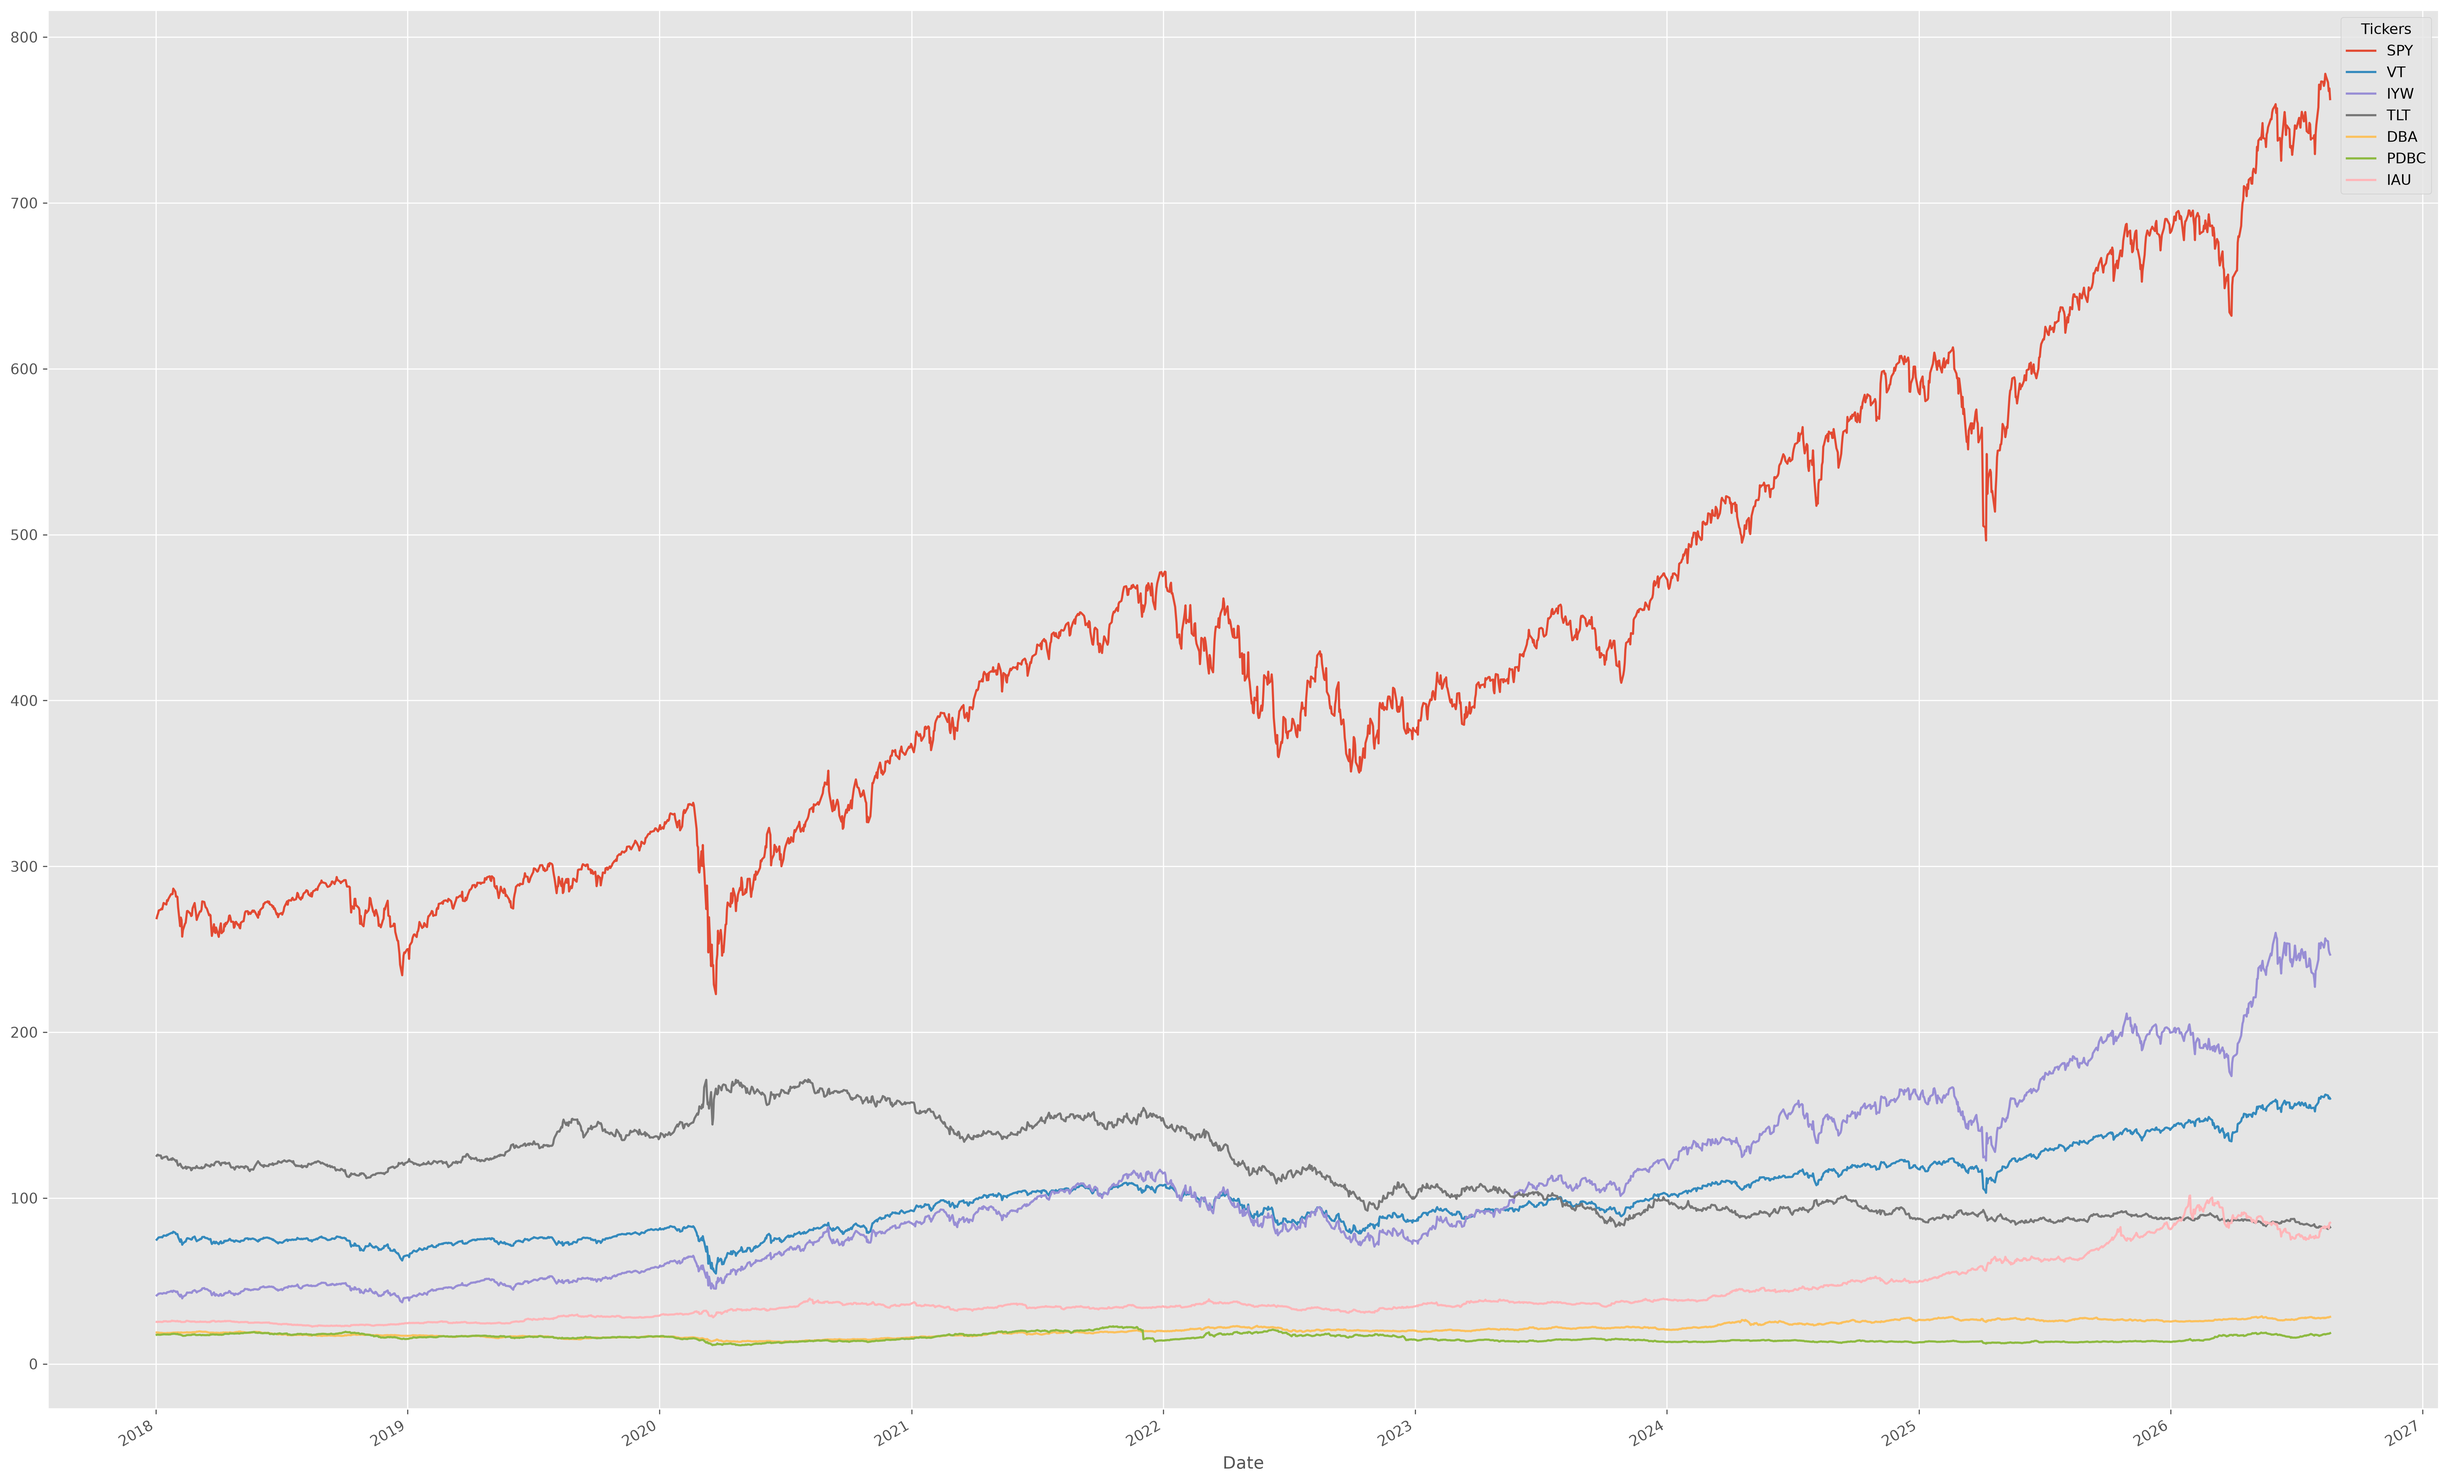
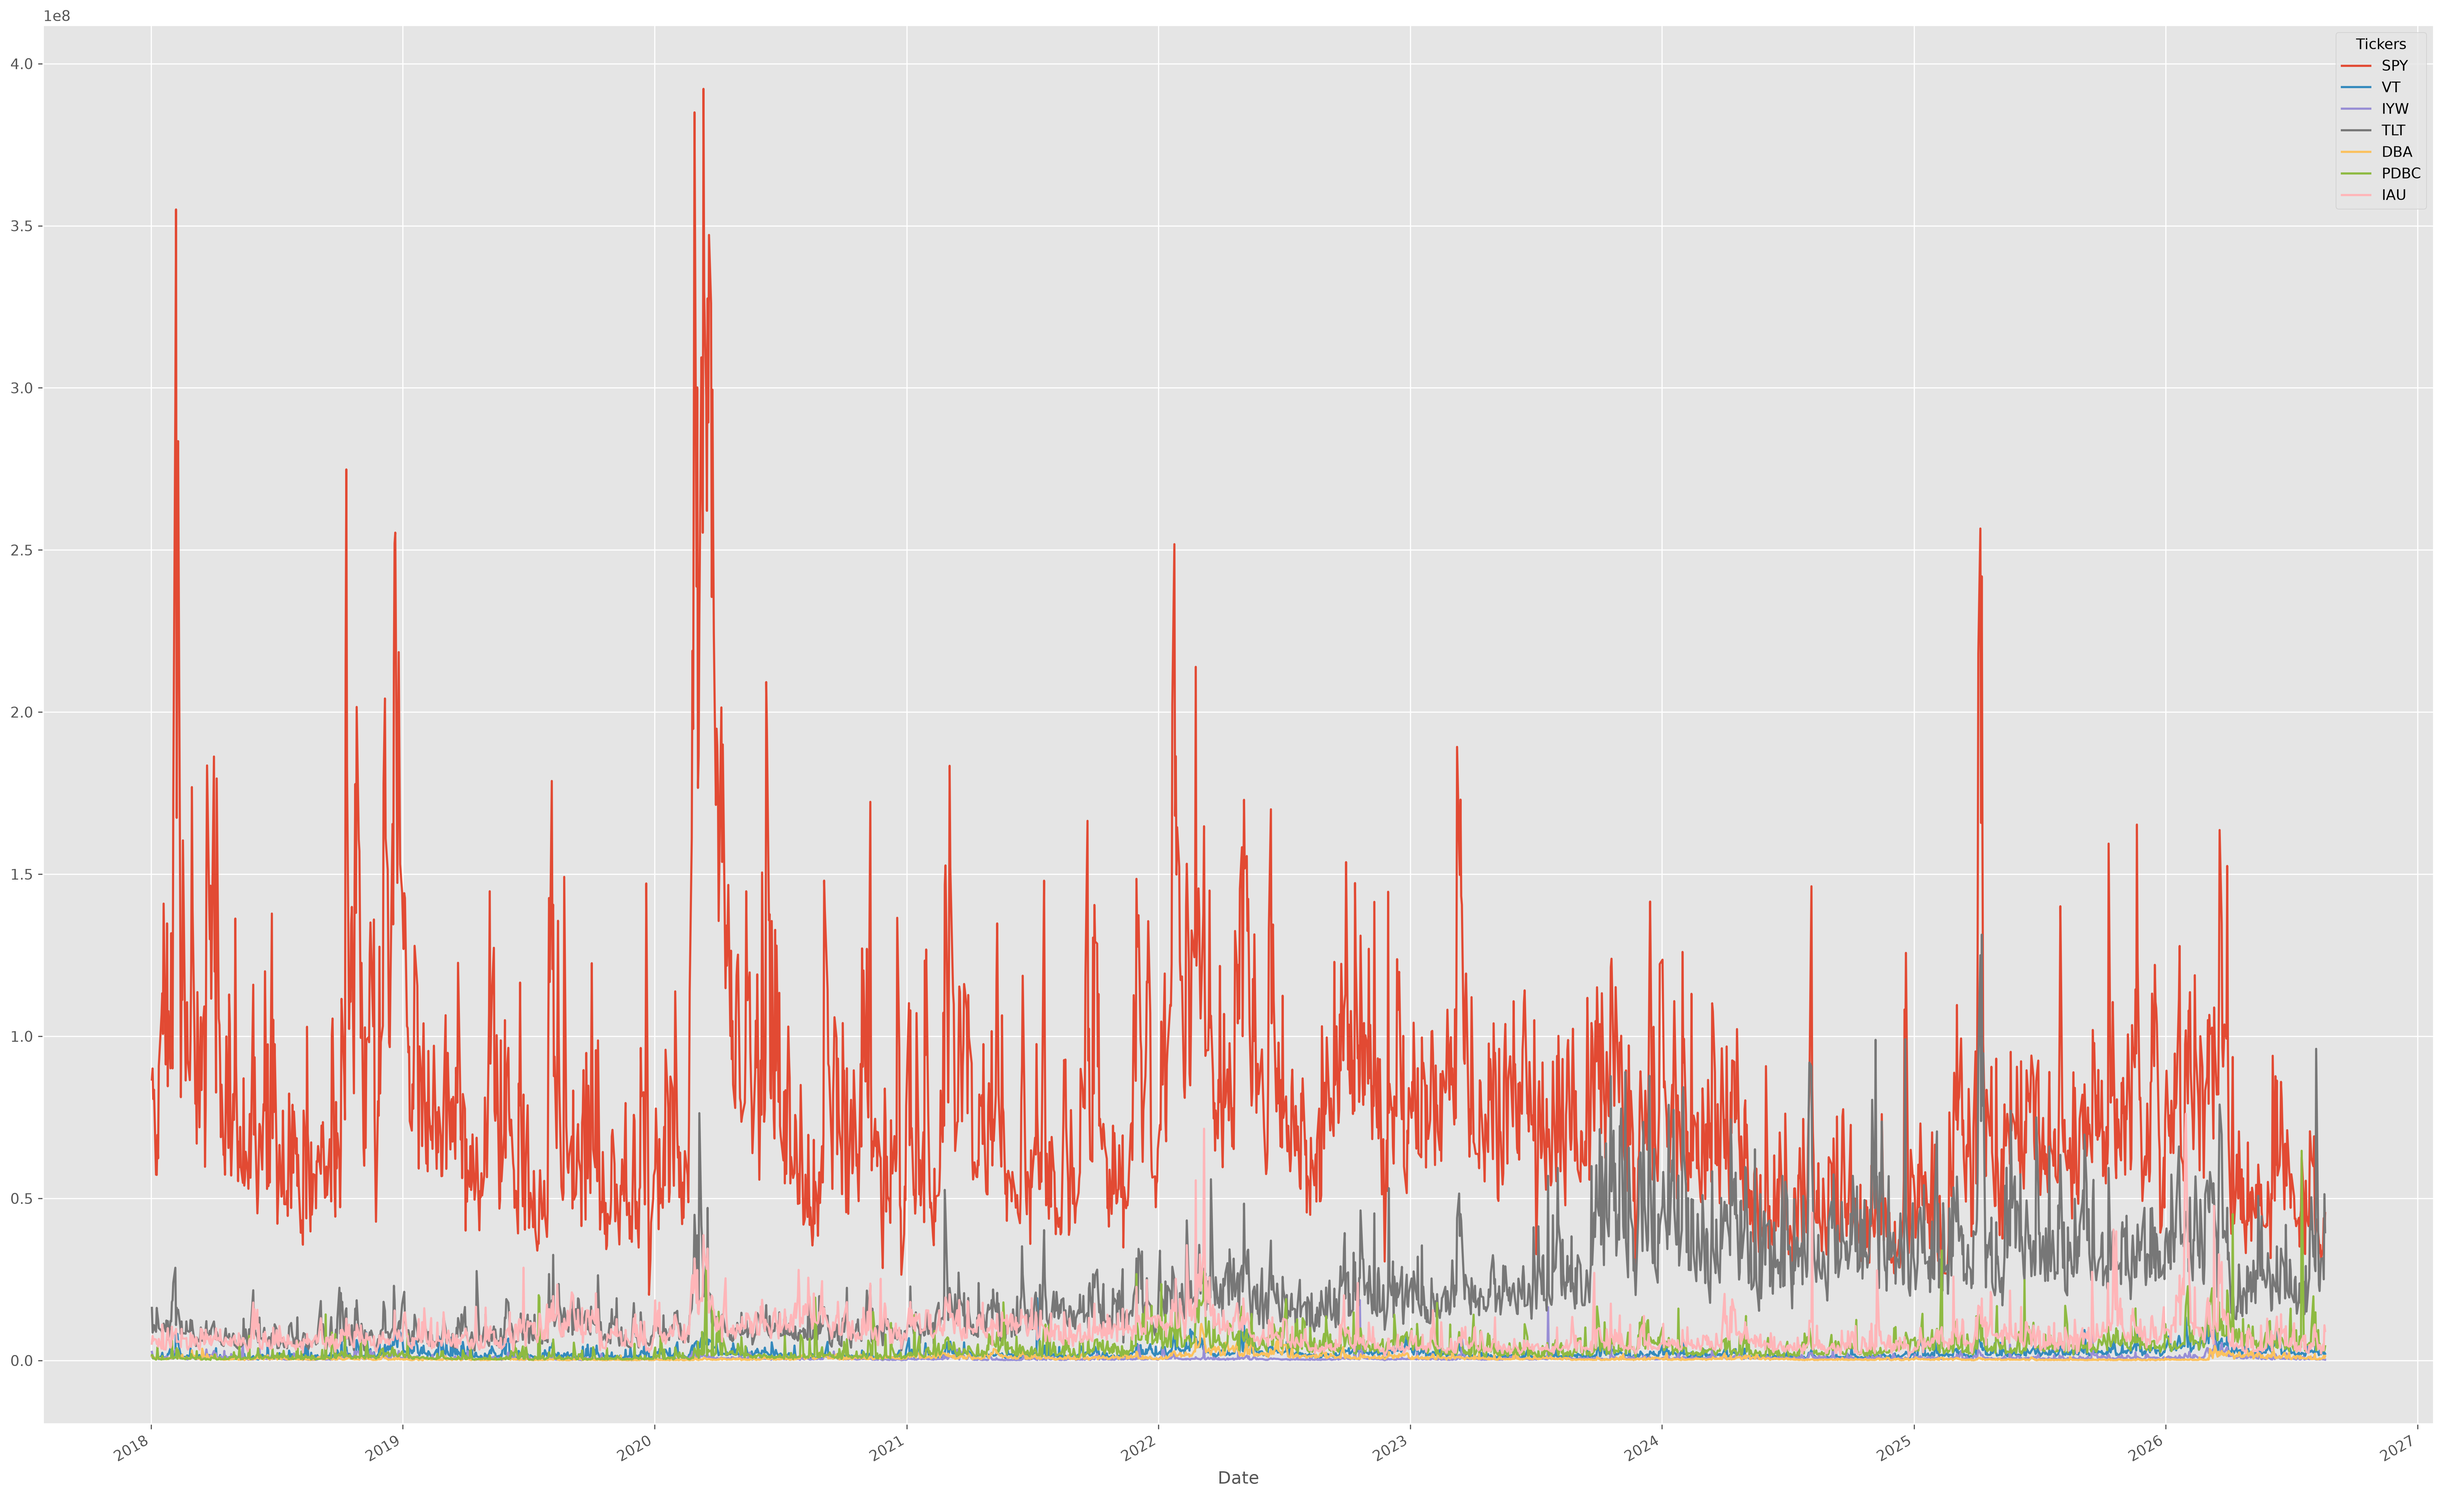
bar graph  module with the graphs pngs

diff --git a/y_finance_solo.py b/y_finance_solo.py
@@ -15,25 +15,49 @@ def get_stock(ticker, start, end):
     data["Tickers"] = ticker  #for new column called Tickers
     return data
 
-def concata(tickers, start, end):
-    tickers = tickers
+def concator(tickers, start, end, value1):
     data = {}
     for i in tickers:
-        data[i] = get_stock(i, start, end).pivot(index="Date", columns="Tickers", values="Close")  # one loop for DRY,
+        data[i] = get_stock(i, start, end).pivot(index="Date", columns="Tickers", values=value1)  # one loop for DRY,
     
             # tickers are added to each i in get_stock and placed in the library
     s = pd.concat([data[i] for i in tickers],
-                       axis=1,
-                       join="outer")
+                    axis=1,
+                    join="outer")
     return s
+
+
+def line_graph(s): #matplot function to plot a line graph
+    plt.style.use("ggplot")
+    s.plot(figsize=(30,20))
+    plt.savefig("myplot5.png")
+    plt.show()
+
+
+# def bar_graph(s):
+#     x = s.index                                     #  <<<<<<<<<<<<<<<<<<<<<    revisit   >>>>>>>>>>>>>>>>>>>>>>>>>>>>>>>>>>
+#     y = s
+#     plt.figure(figsize=(30, 20))
+#     plt.bar(x, y)
+#     plt.savefig("barplot.png")
+#     plt.show()
+
+
 
 def main():
     start = datetime(2018, 1,1)
     end = datetime.today()
     tickers = ["SPY", "VT", "IYW", "TLT", "DBA", "PDBC", "IAU"] #all the tickers
+    value1 = "Close"
 
-    s = concata(tickers, start, end)
-    print(s.head())
+
+
+   
+    merged = concator(tickers, start, end, value1)
+    # df = merged.drop("")
+    print(merged.head())
+    line_graph(merged)
+    # bar_graph(merged)
 
 
 
